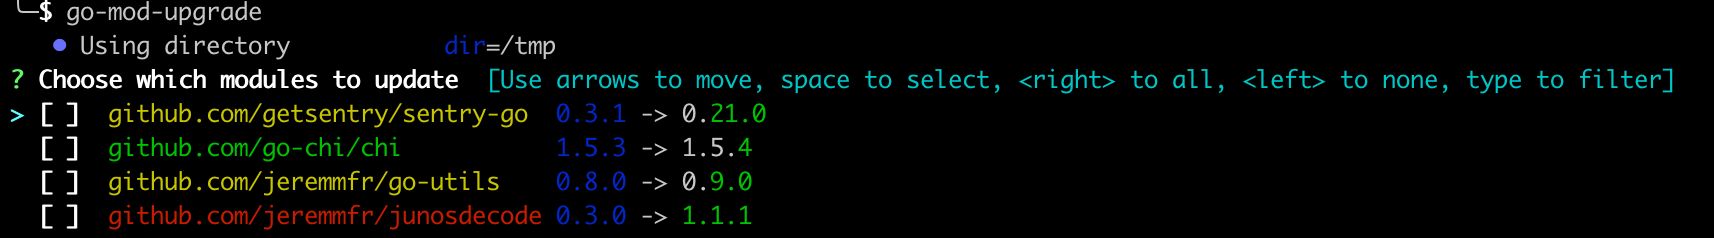
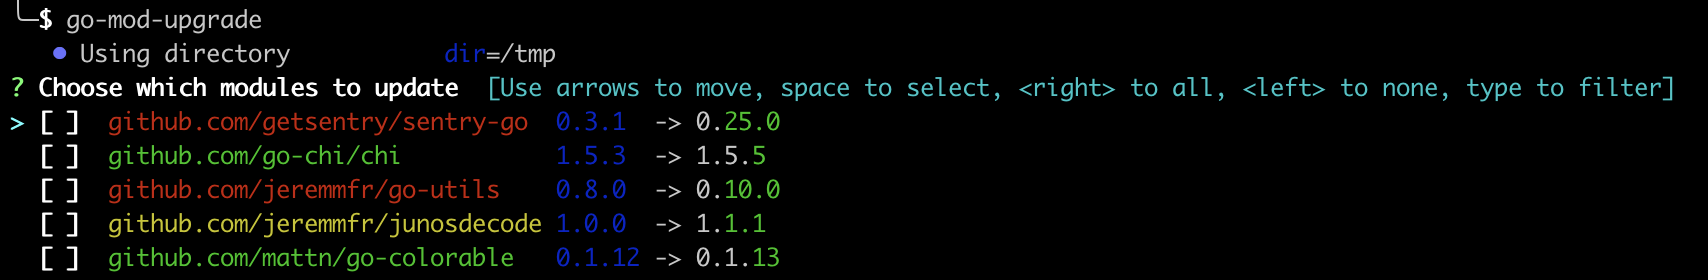
choose: change color for package name to red
when update minor version but with major version `v0`

diff --git a/main.go b/main.go
@@ -57,7 +57,12 @@ func formatName(module Module, length int) string {
 	case from.Major() != to.Major():
 		c = color.New(color.FgRed).SprintFunc()
 	case from.Minor() != to.Minor():
-		c = color.New(color.FgYellow).SprintFunc()
+		switch {
+		case from.Major() == 0:
+			c = color.New(color.FgRed).SprintFunc()
+		default:
+			c = color.New(color.FgYellow).SprintFunc()
+		}
 	case from.Patch() != to.Patch():
 		c = color.New(color.FgGreen).SprintFunc()
 	}

diff --git a/CHANGELOG.md b/CHANGELOG.md
@@ -1,6 +1,10 @@
 <!-- markdownlint-disable-file MD013 MD041 -->
 # changelog
 
+ENHANCEMENTS:
+
+* change color for package name to red when update minor version but with major version `v0`
+
 ## v0.1.4 (June 08, 2023)
 
 PATCH:
